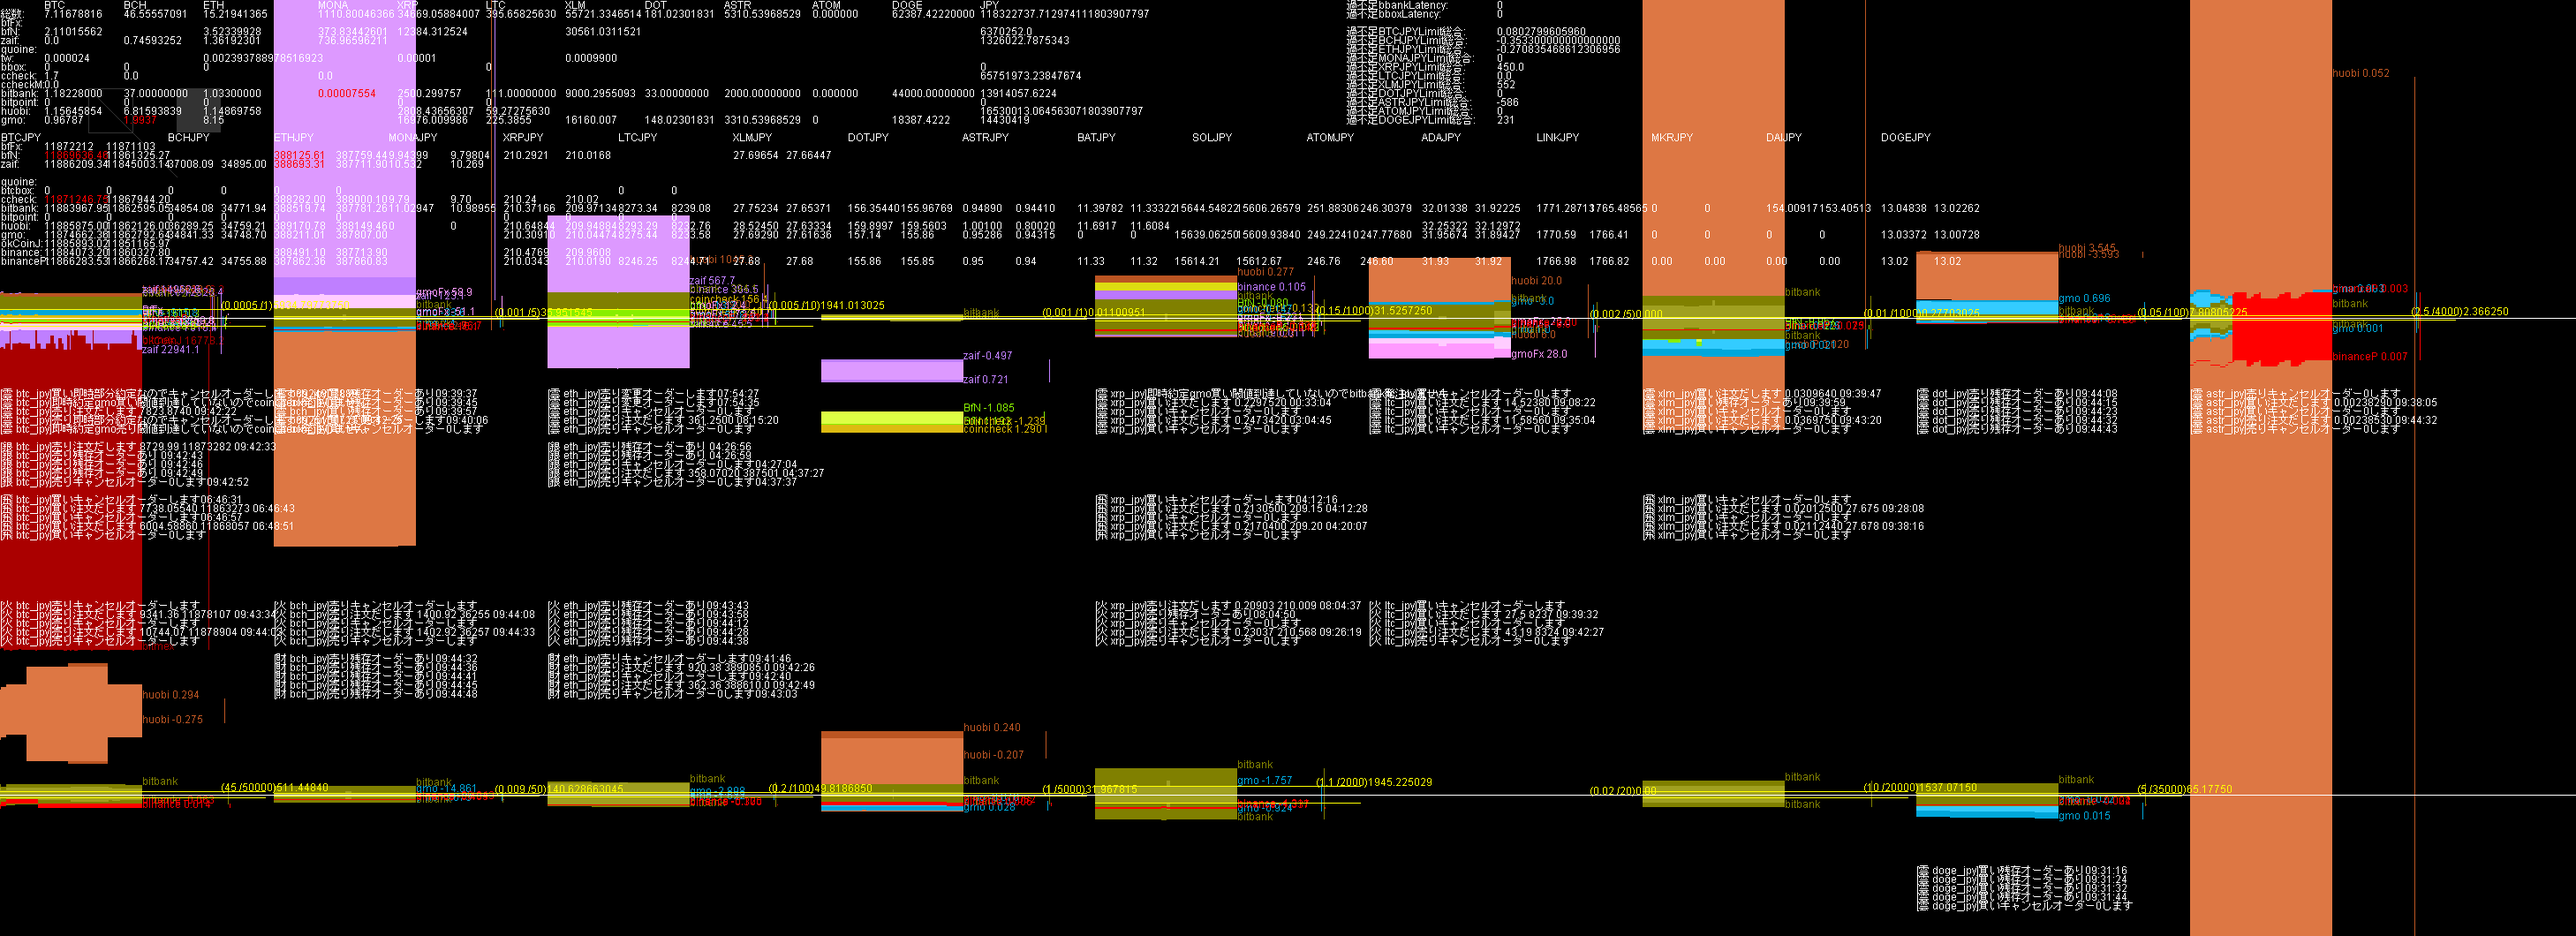
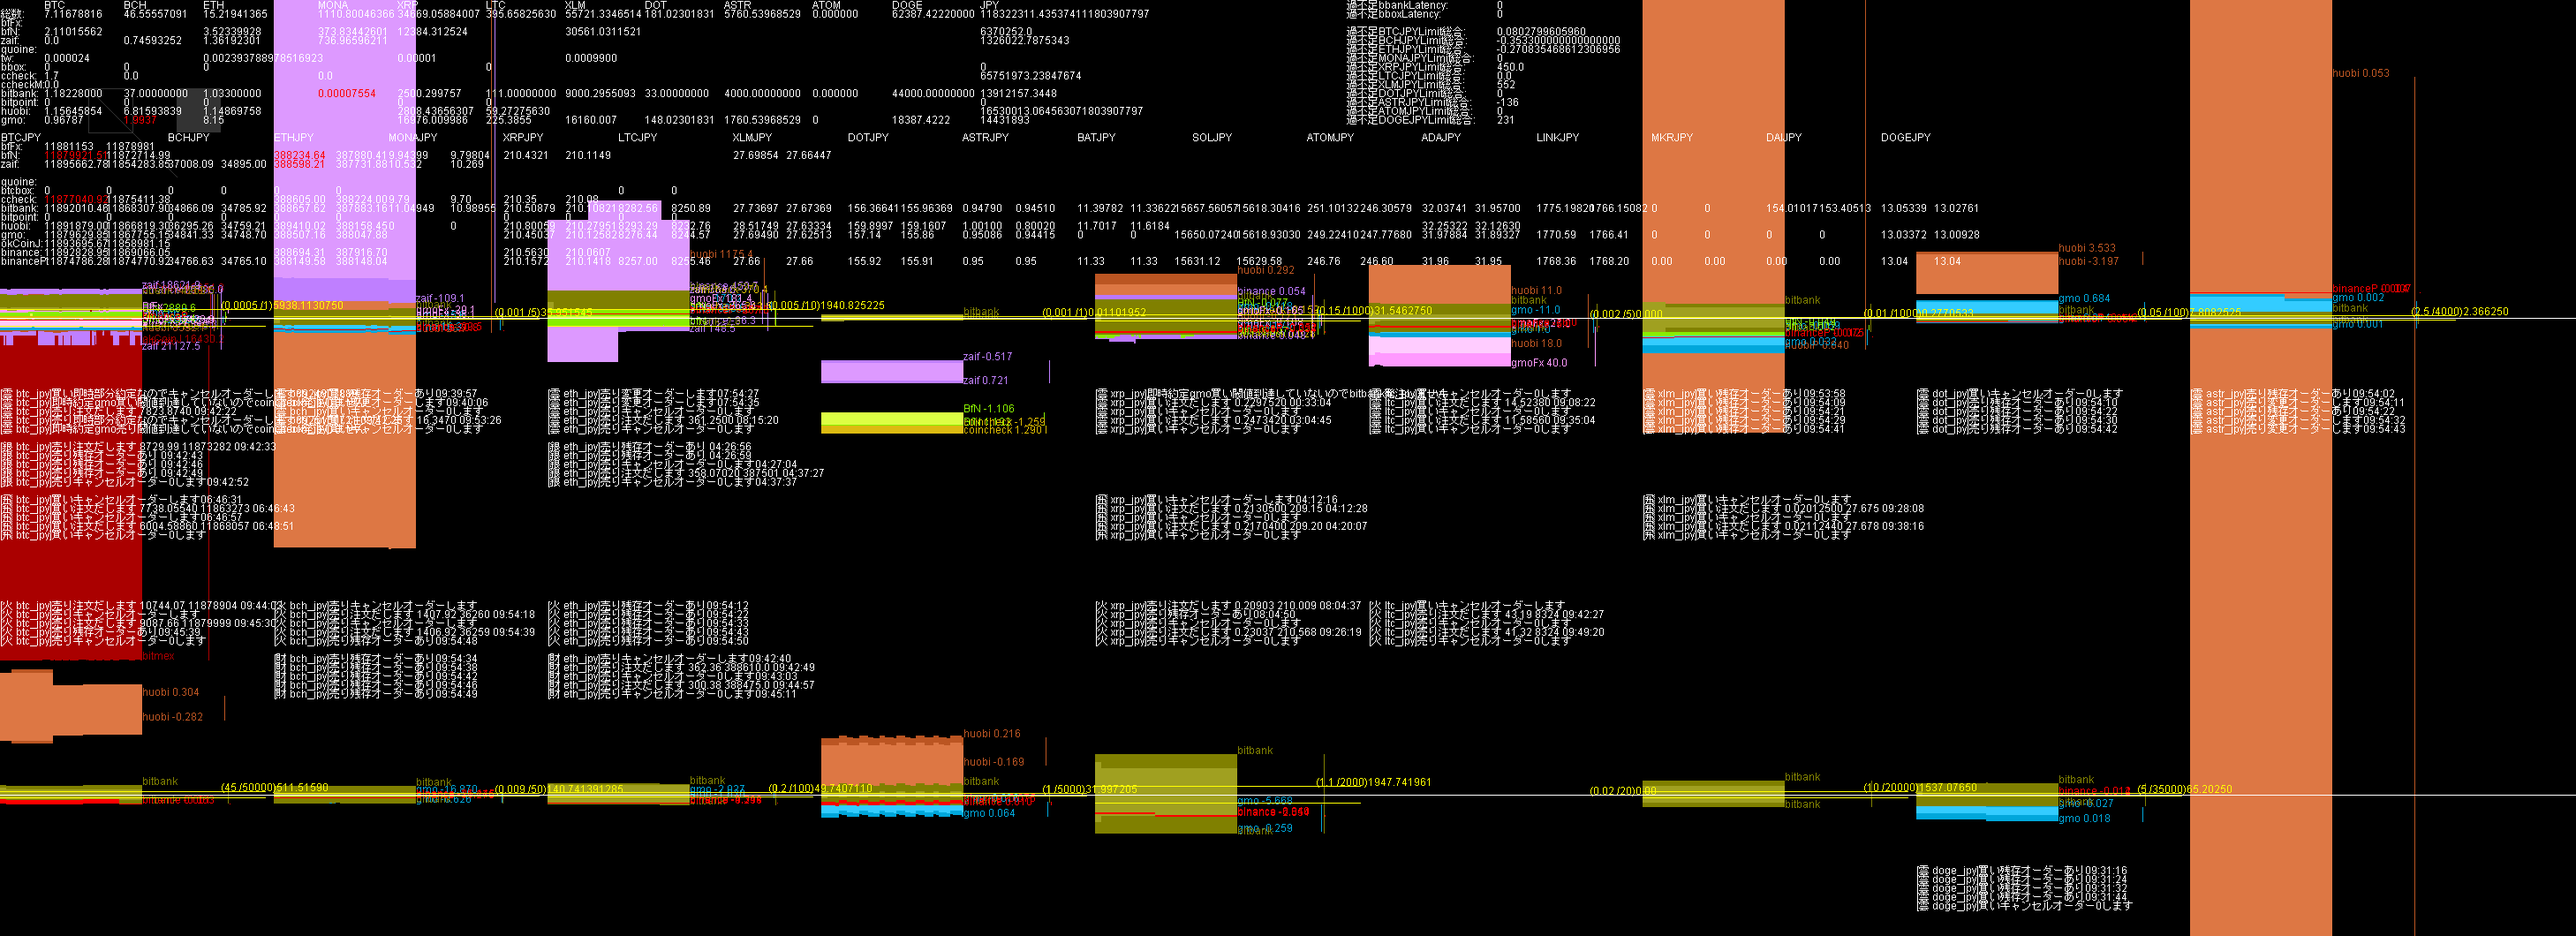
Update HTML file via Java

diff --git a/ca.html b/ca.html
@@ -16,6 +16,9 @@ th { background-color: #222; text-align: center; }
     <tr><th>ddhhmm</th><th>bfJPY</th><th>財JPY</th><th>ccJPY</th><th>銀JPY</th><th>火JPY</th><th>雲JPY</th><th>bfBTC</th><th>財BTC</th><th>ccBTC</th><th>銀BTC</th><th>火BTC</th><th>雲BTC</th><th>bfBCH</th><th>財BCH</th><th>ccBCH</th><th>銀BCH</th><th>火BCH</th><th>雲BCH</th><th>bfETH</th><th>財ETH</th><th>ccETH</th><th>銀ETH</th><th>火ETH</th><th>雲ETH</th><th>bfMONA</th><th>財MONA</th><th>ccMONA</th><th>銀MONA</th><th>火MONA</th><th>雲MONA</th><th>bfXRP</th><th>財XRP</th><th>ccXRP</th><th>銀XRP</th><th>火XRP</th><th>雲XRP</th><th>bfLTC</th><th>財LTC</th><th>ccLTC</th><th>銀LTC</th><th>火LTC</th><th>雲LTC</th><th>bfXLM</th><th>財XLM</th><th>ccXLM</th><th>銀XLM</th><th>火XLM</th><th>雲XLM</th><th>bfDOT</th><th>財DOT</th><th>ccDOT</th><th>銀DOT</th><th>火DOT</th><th>雲DOT</th><th>bfASTR</th><th>財ASTR</th><th>ccASTR</th><th>銀ASTR</th><th>火ASTR</th><th>雲ASTR</th><th>bfDOGE</th><th>財DOGE</th><th>ccDOGE</th><th>銀DOGE</th><th>火DOGE</th><th>雲DOGE</th>    </tr>  </thead>
   <tbody>
     <tr>
+<td>130954</td><td>00637</td><td>00132</td><td>06575</td><td>01391</td><td>01653</td><td>01443</td><td>02.11</td><td>00.00</td><td>01.70</td><td>01.18</td><td>01.16</td><td>00.97</td><td>00.00</td><td><span style="color: #ff69b4">00.75</span></td><td>00.00</td><td>37.00</td><td>06.82</td><td>01.99</td><td>03.52</td><td>01.36</td><td>00.00</td><td>01.03</td><td>01.15</td><td>08.15</td><td>0373.8</td><td>0737.0</td><td>0000.0</td><td><span style="color: #ff69b4">0000.0</span></td><td>0000.0</td><td>0000.0</td><td>12384</td><td>00000</td><td>00000</td><td>02500</td><td>02808</td><td>16976</td><td>00.00</td><td>00.00</td><td>00.00</td><td>111.00</td><td>59.27</td><td>225.39</td><td>00.00</td><td>00.00</td><td>00.00</td><td>9000.30</td><td>00.00</td><td>16160.01</td><td>00.00</td><td>00.00</td><td>00.00</td><td>33.00</td><td>00.00</td><td>148.02</td><td>00.00</td><td>00.00</td><td>00.00</td><td>4000.00</td><td>00.00</td><td>1760.54</td><td>00.00</td><td>00.00</td><td>00.00</td><td>44000.00</td><td>00.00</td><td>18387.42</td>
+    </tr>
+    <tr>
 <td>130944</td><td>00637</td><td>00132</td><td>06575</td><td>01391</td><td>01653</td><td>01443</td><td>02.11</td><td>00.00</td><td>01.70</td><td>01.18</td><td>01.16</td><td>00.97</td><td>00.00</td><td><span style="color: #ff69b4">00.75</span></td><td>00.00</td><td>37.00</td><td>06.82</td><td>01.99</td><td>03.52</td><td>01.36</td><td>00.00</td><td>01.03</td><td>01.15</td><td>08.15</td><td>0373.8</td><td>0737.0</td><td>0000.0</td><td><span style="color: #ff69b4">0000.0</span></td><td>0000.0</td><td>0000.0</td><td>12384</td><td>00000</td><td>00000</td><td>02500</td><td>02808</td><td>16976</td><td>00.00</td><td>00.00</td><td>00.00</td><td>111.00</td><td>59.27</td><td>225.39</td><td>00.00</td><td>00.00</td><td>00.00</td><td>9000.30</td><td>00.00</td><td>16160.01</td><td>00.00</td><td>00.00</td><td>00.00</td><td>33.00</td><td>00.00</td><td>148.02</td><td>00.00</td><td>00.00</td><td>00.00</td><td>2000.00</td><td>00.00</td><td>3310.54</td><td>00.00</td><td>00.00</td><td>00.00</td><td>44000.00</td><td>00.00</td><td>18387.42</td>
     </tr>
     <tr>
